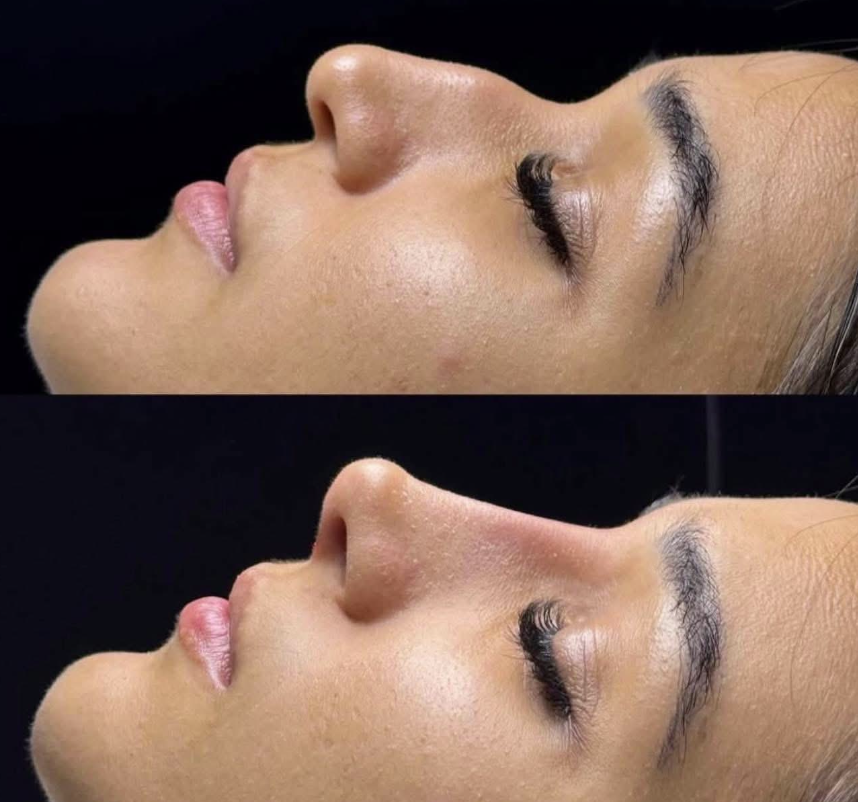
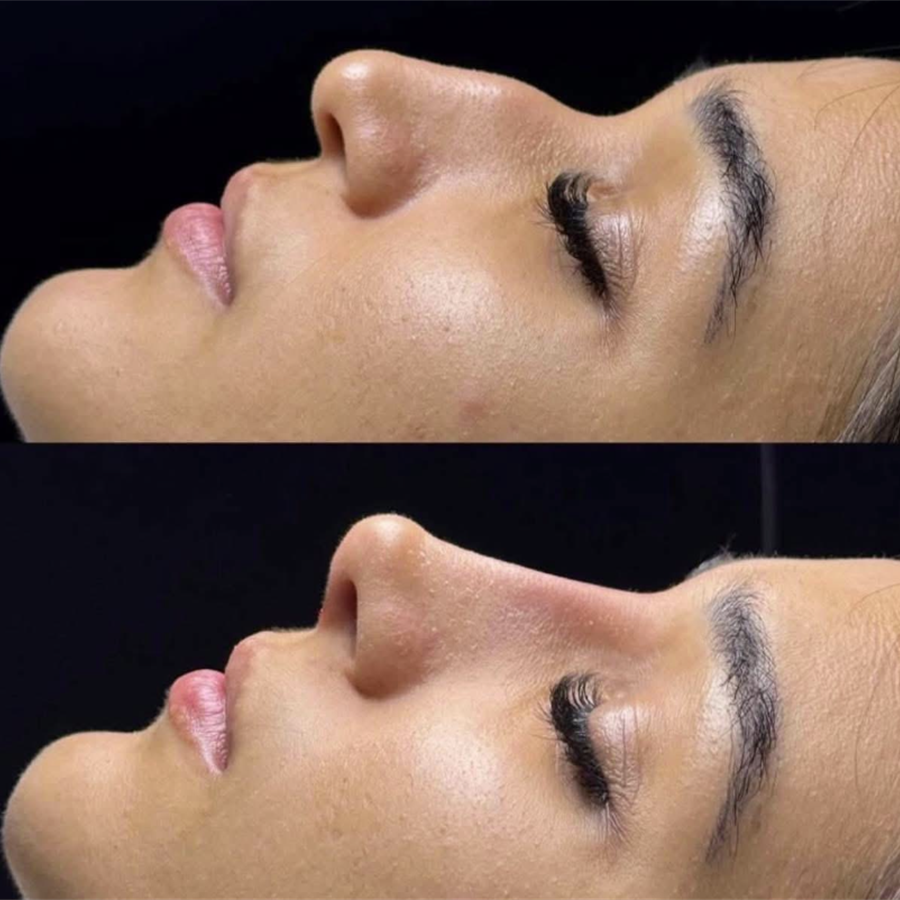
Rediseña tarjeta del catálogo y normaliza imágenes a 900x900

diff --git a/lib/features/catalog_services/presentation/screens/services_dashboard_screen.dart b/lib/features/catalog_services/presentation/screens/services_dashboard_screen.dart
@@ -568,27 +568,27 @@ label: const Text('Reintentar'),
                 )
               : LayoutBuilder(
                   builder: (context, constraints) {
-                    // Lista vertical: cada tarjeta ocupa el ancho disponible y
-                    // crece en altura para mostrar la descripción completa.
-                    final maxCardWidth =
-                        constraints.maxWidth >= 1000 ? 900.0 : constraints.maxWidth;
+                    final isDesktop = constraints.maxWidth >= 1000;
+                    final isTablet = constraints.maxWidth >= 600 && constraints.maxWidth < 1000;
+                    final crossAxisCount = isDesktop ? 3 : (isTablet ? 2 : 1);
+                    // Aspecto más alto para que quepan la imagen completa y la
+                    // descripción completa sin recortar.
+                    final childAspectRatio = isDesktop ? 0.60 : (isTablet ? 0.55 : 0.68);
 
                     return Stack(
                       children: [
-                        ListView.builder(
+                        GridView.builder(
                           padding: EdgeInsets.zero,
                           itemCount: servicios.length,
-                          itemBuilder: (context, i) => Center(
-                            child: ConstrainedBox(
-                              constraints: BoxConstraints(maxWidth: maxCardWidth),
-                              child: Padding(
-                                padding: const EdgeInsets.only(bottom: 18),
-                                child: _ServiceCard(
-                                  service: servicios[i],
-                                  onTap: () => _onServiceSelected(servicios[i]),
-                                ),
-                              ),
-                            ),
+                          gridDelegate: SliverGridDelegateWithFixedCrossAxisCount(
+                            crossAxisCount: crossAxisCount,
+                            crossAxisSpacing: 18,
+                            mainAxisSpacing: 18,
+                            childAspectRatio: childAspectRatio,
+                          ),
+                          itemBuilder: (context, i) => _ServiceCard(
+                            service: servicios[i],
+                            onTap: () => _onServiceSelected(servicios[i]),
                           ),
                         ),
                         if (state.loadingServicios)
@@ -796,68 +796,70 @@ class _ServiceCard extends StatelessWidget {
           boxShadow: AppTheme.cardShadow,
         ),
       child: Column(
-        crossAxisAlignment: CrossAxisAlignment.start,
+        crossAxisAlignment: CrossAxisAlignment.stretch,
         children: [
-          SizedBox(height: 200, child: _buildHero()),
-          Padding(
-            padding: const EdgeInsets.all(14),
-            child: Column(
-              crossAxisAlignment: CrossAxisAlignment.start,
-              children: [
-                Row(
-                  mainAxisAlignment: MainAxisAlignment.spaceBetween,
-                  children: [
-                    Expanded(
-                      child: Text(
-                        service.nombre,
-                        style: Theme.of(context).textTheme.titleMedium?.copyWith(fontSize: 15, fontWeight: FontWeight.bold),
-                        maxLines: 1,
-                        overflow: TextOverflow.ellipsis,
-                      ),
-                    ),
-                    Text(
-                      _formatPrice(service),
-                      style: const TextStyle(fontSize: 15, fontWeight: FontWeight.bold, color: AppTheme.cDeepAccent),
-                    ),
-                  ],
-                ),
-                const SizedBox(height: 6),
-                Text(
-                  service.descripcion ?? '',
-                  style: Theme.of(context).textTheme.bodySmall?.copyWith(fontSize: 12, height: 1.3),
-                ),
-                const SizedBox(height: 14),
-                Row(
-                  children: [
-                    if (service.nombreCategoria != null) ...[
-                      Flexible(
-                        child: Container(
-                          padding: const EdgeInsets.symmetric(horizontal: 8, vertical: 3),
-                          decoration: BoxDecoration(
-                            color: AppTheme.cPastelPurple,
-                            borderRadius: BorderRadius.circular(10),
-                          ),
-                          child: Text(
-                            service.nombreCategoria!,
-                            maxLines: 1,
-                            overflow: TextOverflow.ellipsis,
-                            style: const TextStyle(fontSize: 10, fontWeight: FontWeight.bold, color: AppTheme.cDeepAccent),
-                          ),
+          Expanded(
+            child: SingleChildScrollView(
+              padding: const EdgeInsets.all(14),
+              child: Column(
+                crossAxisAlignment: CrossAxisAlignment.start,
+                children: [
+                  Row(
+                    crossAxisAlignment: CrossAxisAlignment.start,
+                    children: [
+                      Expanded(
+                        child: Text(
+                          service.nombre,
+                          style: Theme.of(context).textTheme.titleLarge?.copyWith(
+                                fontSize: 17,
+                                fontWeight: FontWeight.w700,
+                                height: 1.2,
+                              ),
                         ),
                       ),
                       const SizedBox(width: 8),
-                    ],
-                    if (service.requiereFotos)
-                      const Tooltip(
-                        message: 'Este servicio requiere evidencia fotográfica',
-                        child: Icon(Icons.photo_camera_outlined, size: 16, color: AppTheme.cDeepAccent),
+                      Text(
+                        _formatPrice(service),
+                        style: const TextStyle(
+                            fontSize: 15,
+                            fontWeight: FontWeight.bold,
+                            color: AppTheme.cDeepAccent),
                       ),
-                    const Spacer(),
-                    const Icon(Icons.chevron_right_rounded, color: AppTheme.cMutedText, size: 20),
+                    ],
+                  ),
+                  if (service.nombreCategoria != null) ...[
+                    const SizedBox(height: 6),
+                    Container(
+                      padding: const EdgeInsets.symmetric(
+                          horizontal: 8, vertical: 3),
+                      decoration: BoxDecoration(
+                        color: AppTheme.cPastelPurple,
+                        borderRadius: BorderRadius.circular(10),
+                      ),
+                      child: Text(
+                        service.nombreCategoria!,
+                        style: const TextStyle(
+                            fontSize: 10,
+                            fontWeight: FontWeight.bold,
+                            color: AppTheme.cDeepAccent),
+                      ),
+                    ),
                   ],
-                ),
-              ],
+                  const SizedBox(height: 8),
+                  Text(
+                    service.descripcion ?? '',
+                    style: Theme.of(context)
+                        .textTheme
+                        .bodySmall
+                        ?.copyWith(fontSize: 11, height: 1.35),
+                  ),
+                ],
+              ),
             ),
+          ),
+          AspectRatio(
+            aspectRatio: 1,
+            child: _buildHero(),
           ),
         ],
       ),
@@ -870,9 +872,11 @@ class _ServiceCard extends StatelessWidget {
 
     return Container(
       width: double.infinity,
+      height: double.infinity,
       clipBehavior: Clip.antiAlias,
       decoration: const BoxDecoration(
-        borderRadius: BorderRadius.vertical(top: Radius.circular(AppTheme.radiusLg)),
+        borderRadius: BorderRadius.vertical(
+            bottom: Radius.circular(AppTheme.radiusLg)),
       ),
       child: _ServiceHeroImage(
         basePath: 'assets/images/service_$slug',
